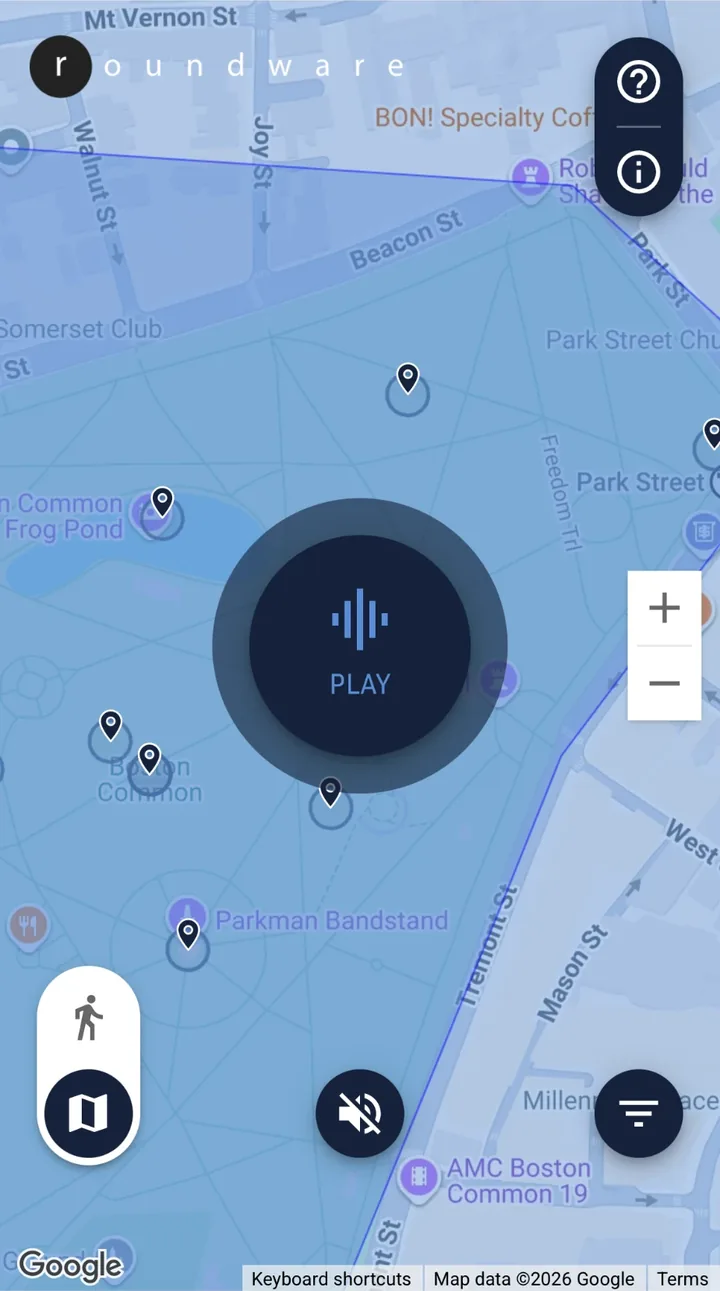
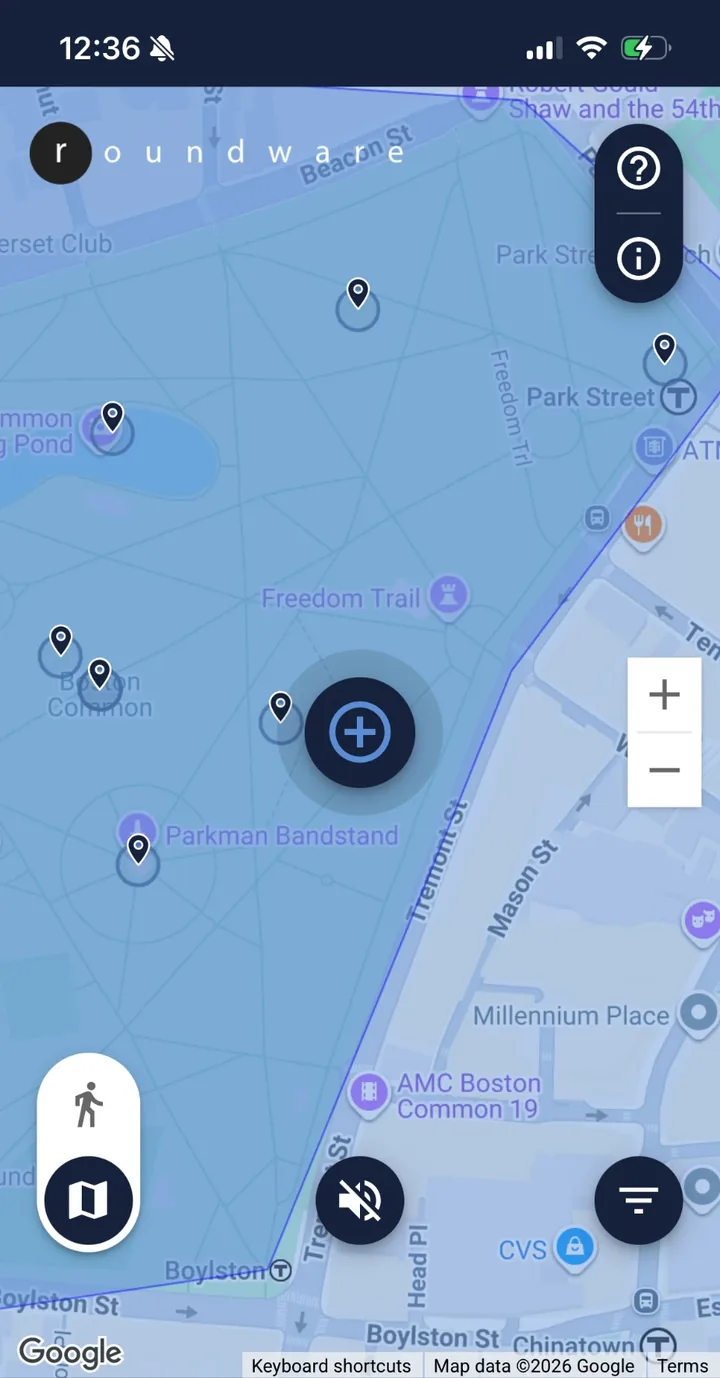
Landing page: new screenshots with the Backdrop-colored status bar
Halsey's retakes with the navy bars; the status bar stays (the camera pill
sits in it, as on a phone) and Safari's toolbar is cropped off.

diff --git a/src/pages/PhoneScreens.tsx b/src/pages/PhoneScreens.tsx
@@ -3,9 +3,10 @@ import React, { useState } from "react";
 
 /**
  * The app as a participant sees it, on the landing page: screenshots in
- * phone frames. Each file in public/brand/screens/ is a phone screenshot
- * cropped to the app itself — no status bar, no browser toolbar — at 720
- * wide; the frame takes the screenshot's shape, so nothing is cut off. A
+ * phone frames. Each file in public/brand/screens/ is an iPhone screenshot
+ * from the status bar (in the project's Backdrop color) down to the app's
+ * bottom edge — Safari's toolbar cropped off — at 720 wide; the frame takes
+ * the screenshot's shape, so nothing is cut off. A
  * screenshot that isn't there is left out, and with none the section
  * doesn't show at all.
  */
@@ -51,7 +52,7 @@ const Phone: React.FC<{ src: string; alt: string; onMissing: () => void }> = ({
       onError={onMissing}
       // The screenshots' size, so the frame has its shape before they load.
       width={720}
-      height={1291}
+      height={1378}
       sx={{
         width: "100%",
         height: "auto",
@@ -59,7 +60,7 @@ const Phone: React.FC<{ src: string; alt: string; onMissing: () => void }> = ({
         borderRadius: "28px",
       }}
     />
-    {/* The camera island, over the top of the app. */}
+    {/* The camera island, in the middle of the status bar. */}
     <Box
       sx={{
         position: "absolute",
